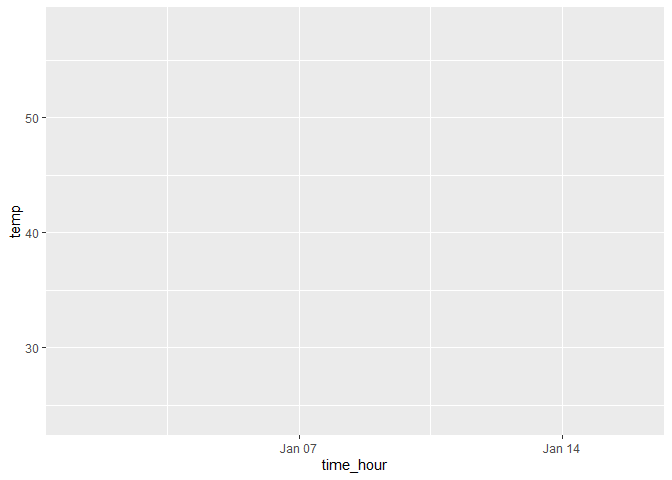
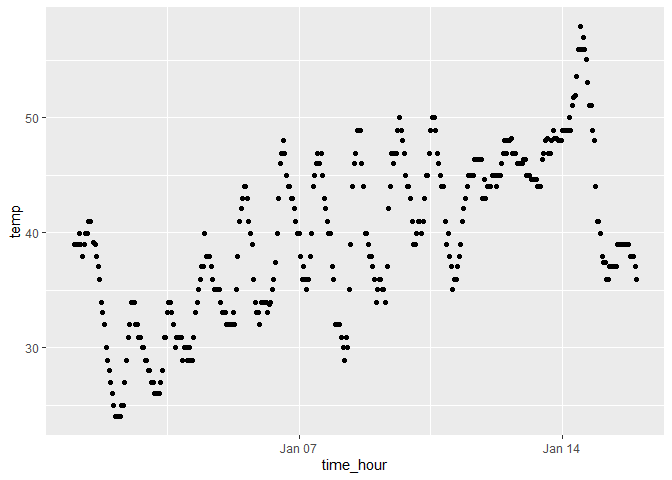
added scatterplot

diff --git a/p8105_hw1_CSL2209.md b/p8105_hw1_CSL2209.md
@@ -50,7 +50,7 @@ The dataset has 15 columns and and 358 rows.
 The mean temperature is 39.5821229.
 
 ``` r
-ggplot(early_january_weather, aes(x = time_hour, y = temp))
+ggplot(early_january_weather, aes(x = time_hour, y = temp)) + geom_point()
 ```
 
 ![](p8105_hw1_CSL2209_files/figure-gfm/unnamed-chunk-2-1.png)<!-- -->
